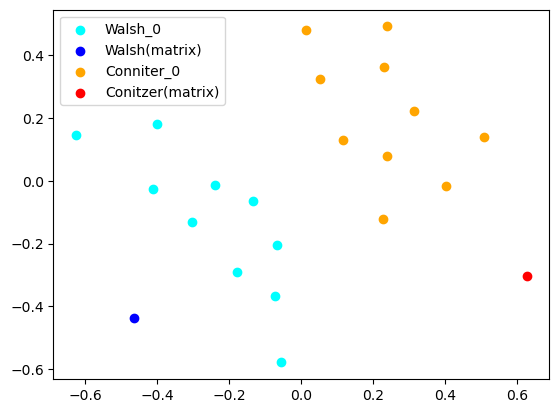
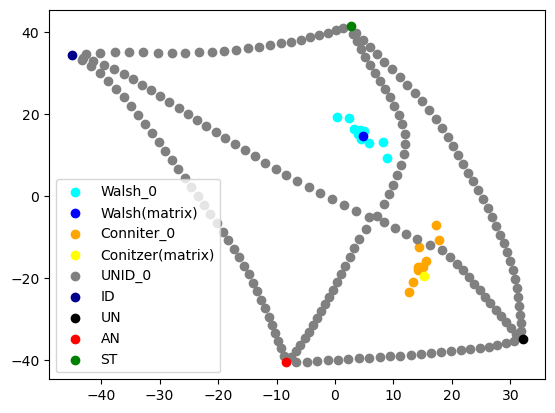
paths without Families

diff --git a/mapel/teaser_2.py b/mapel/teaser_2.py
@@ -1,12 +1,13 @@
 import mapel
 
 if __name__ == "__main__":
-    num_candidates = 10
+    num_candidates = 6
     num_voters = 100
     city_size = 10
 
     Conitzer_city = []
     Walsh_city = []
+    paths = []
 
     dict_with_votes = {}
     for i in range(city_size):
@@ -19,6 +20,42 @@ if __name__ == "__main__":
         dict_with_votes[votes_id] = mapel.generate_votes(election_model='walsh',
                                                         num_candidates=num_candidates, num_voters=num_voters)
 
+    for i in range(48):
+        votes_id = 'UNID_' + str(i)
+        paths.append(votes_id)
+        param_1 = (i + 1) / (48 + 1)
+        dict_with_votes[votes_id] = mapel.generate_votes(election_model='unid', num_candidates=num_candidates, num_voters=num_voters, param_1=param_1)
+    for i in range(36):
+        votes_id = 'ANID_' + str(i)
+        paths.append(votes_id)
+        param_1 = (i + 1) / (36 + 1)
+        dict_with_votes[votes_id] = mapel.generate_votes(election_model='anid', num_candidates=num_candidates, num_voters=num_voters, param_1=param_1)
+    for i in range(23):
+        votes_id = 'STID_' + str(i)
+        paths.append(votes_id)
+        param_1 = (i + 1) / (23 + 1)
+        dict_with_votes[votes_id] = mapel.generate_votes(election_model='stid', num_candidates=num_candidates, num_voters=num_voters, param_1=param_1)
+    for i in range(23):
+        votes_id = 'ANUN_' + str(i)
+        paths.append(votes_id)
+        param_1 = (i + 1) / (23 + 1)
+        dict_with_votes[votes_id] = mapel.generate_votes(election_model='anun', num_candidates=num_candidates, num_voters=num_voters, param_1=param_1)
+    for i in range(36):
+        votes_id = 'STUN_' + str(i)
+        paths.append(votes_id)
+        param_1 = (i + 1) / (36 + 1)
+        dict_with_votes[votes_id] = mapel.generate_votes(election_model='stun', num_candidates=num_candidates, num_voters=num_voters, param_1=param_1)
+    for i in range(39):
+        votes_id = 'STAN_' + str(i)
+        paths.append(votes_id)
+        param_1 = (i + 1) / (39 + 1)
+        dict_with_votes[votes_id] = mapel.generate_votes(election_model='stan', num_candidates=num_candidates, num_voters=num_voters, param_1=param_1)
+
+    dict_with_votes['ID'] = mapel.generate_votes(election_model='identity', num_candidates=num_candidates, num_voters=num_voters)
+    dict_with_votes['UN'] = mapel.generate_votes(election_model='uniformity', num_candidates=num_candidates, num_voters=num_voters)
+    dict_with_votes['AN'] = mapel.generate_votes(election_model='antagonism', num_candidates=num_candidates, num_voters=num_voters)
+    dict_with_votes['ST'] = mapel.generate_votes(election_model='stratification', num_candidates=num_candidates, num_voters=num_voters)
+
     dict_with_votes['Conitzer(matrix)'] = mapel.generate_votes(election_model='conitzer_matrix',
                                                                        num_candidates=num_candidates,
                                                                        num_voters=num_voters)
@@ -30,8 +67,13 @@ if __name__ == "__main__":
     group_by = {'cyan': Walsh_city,
                 'blue': ['Walsh(matrix)'],
                 'orange': Conitzer_city,
-                'red': ['Conitzer(matrix)']}
+                'yellow': ['Conitzer(matrix)'],
+                'grey': paths,
+                'darkblue': ['ID'],
+                'black': ['UN'],
+                'red': ['AN'],
+                'green': ['ST']}
 
     distances = mapel.compute_distances_between_votes(dict_with_votes)
-    coordinates = mapel.embed(distances, algorithm='mds')
+    coordinates = mapel.embed(distances, algorithm='mds', attraction_factor=1)
     mapel.print_map(coordinates, group_by=group_by, saveas='cities')

diff --git a/mapel/voting/metrics/main_distances.py b/mapel/voting/metrics/main_distances.py
@@ -94,8 +94,8 @@ def compute_candidate_subelection(election_1, election_2):
 ### HELPER FUNCTIONS ###
 def get_matching_cost_positionwise(ele_1, ele_2, inner_distance):
     """ Get matching cost for positionwise distances """
-    vectors_1 = ele_1.votes_to_positionwise_matrix()
-    vectors_2 = ele_2.votes_to_positionwise_matrix()
+    vectors_1 = ele_1.votes_to_positionwise_vectors()
+    vectors_2 = ele_2.votes_to_positionwise_vectors()
     size = ele_1.num_candidates
     cost_table = [[inner_distance(list(vectors_1[i]), list(vectors_2[j]), size) for i in range(size)] for j in range(size)]
     return cost_table

diff --git a/mapel/voting/_elections.py b/mapel/voting/_elections.py
@@ -93,7 +93,7 @@ def generate_votes(election_model=None, num_candidates=None, num_voters=None, pa
         votes = double_param_models.get(election_model)(num_voters=num_voters, num_candidates=num_candidates,
                                                         param_1=param_1, param_2=param_2)
     elif election_model in LIST_OF_FAKE_MODELS:
-        votes = [election_model, num_candidates, num_voters]
+        votes = [election_model, num_candidates, num_voters, param_1, param_2]
     else:
         votes = []
         print("No such election model!", election_model)

diff --git a/mapel/voting/objects/Election.py b/mapel/voting/objects/Election.py
@@ -28,6 +28,8 @@ class Election:
                 self.election_model = votes[0]
                 self.num_candidates = votes[1]
                 self.num_voters = votes[2]
+                self.fake_param = votes[3]
+
             else:
                 self.votes = votes
                 self.num_candidates = len(votes[0])
